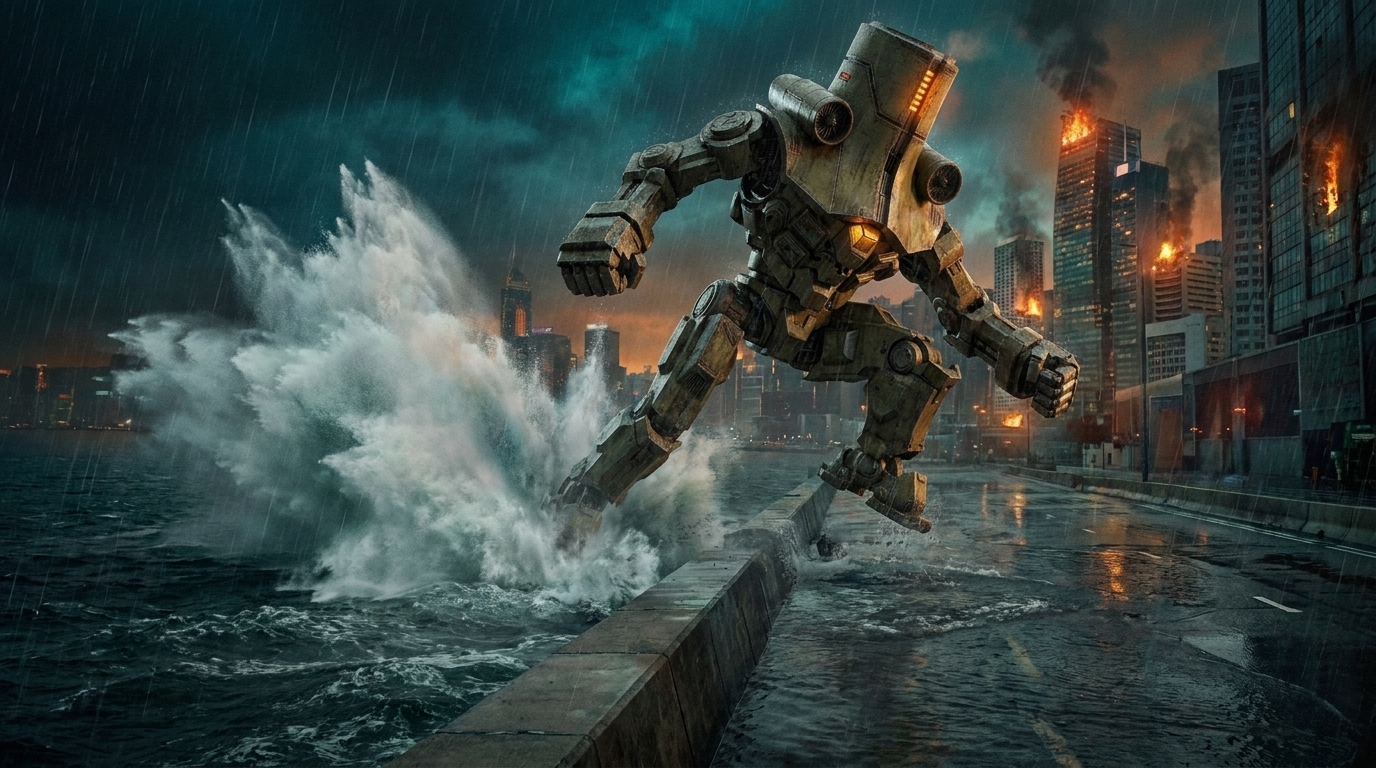
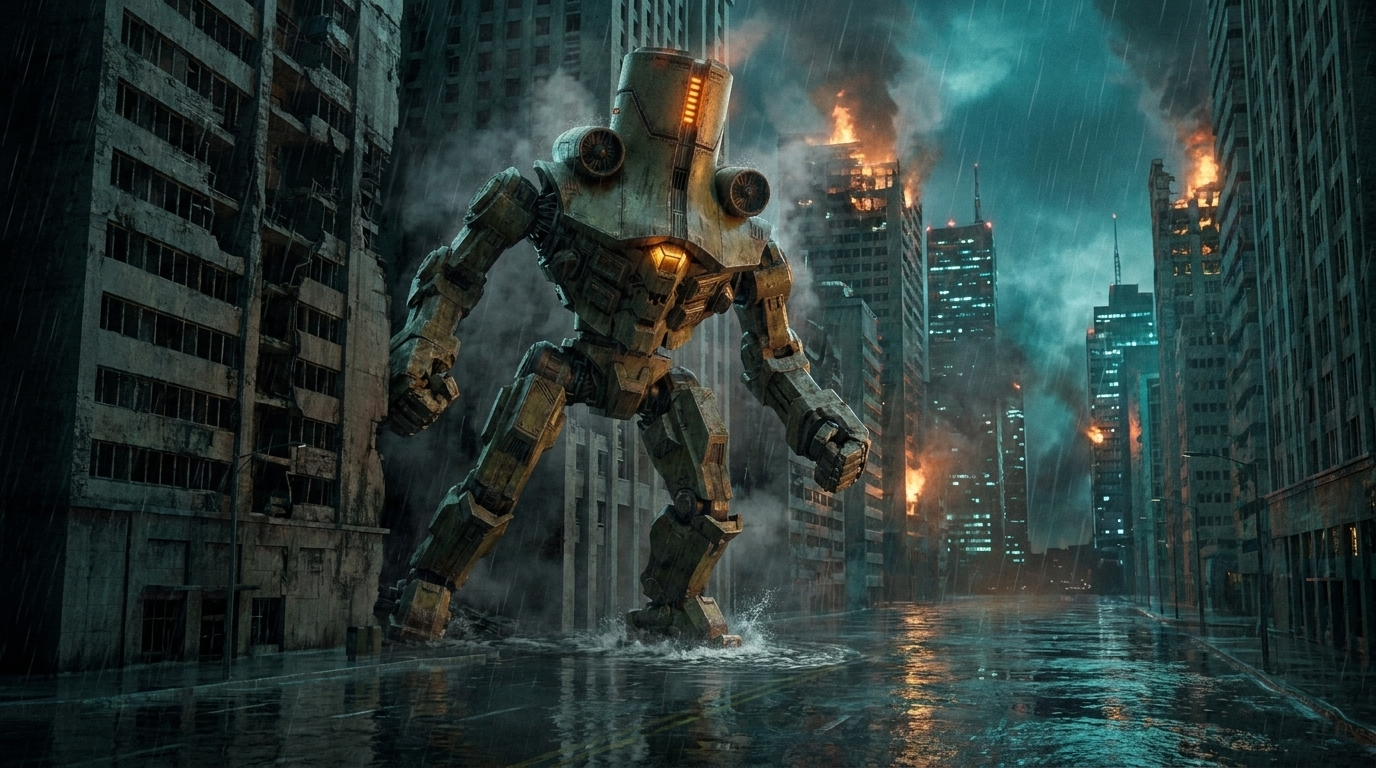
Update Beat 02 (shot_05 to shot_08): Cherno steps from city street, marches along boulevard, arrives at seawall street, raises fists facing Godzilla

diff --git a/projects/cherno-alpha-vs-godzilla/PROGRESS.md b/projects/cherno-alpha-vs-godzilla/PROGRESS.md
@@ -21,7 +21,7 @@ Kết thúc phiên: `media-push` rồi `git add -A && git commit && git push` (q
 - **Slug:** `cherno-alpha-vs-godzilla` — thư mục `projects/cherno-alpha-vs-godzilla/` (KHÔNG `init` dự án mới)
 - **Flow:** https://flow.google.com/project/eba75017-1af5-48e6-b95b-1b0d6294c221
 - **Ngôn ngữ / khung:** en / 16:9; giọng dẫn `-`
-- **Cập nhật lần cuối:** 2026-10-21T21:28:45 trên máy **DESKTOP-HUP72C4** (lệnh `storyboard`)
+- **Cập nhật lần cuối:** 2026-10-22T17:27:21 trên máy **DESKTOP-HUP72C4** (lệnh `storyboard`)
 - **Storyboard:** chưa duyệt
 
 ## ▶ Bước tiếp theo: 4. 🧑 Chờ người dùng duyệt storyboard
@@ -152,6 +152,11 @@ python scripts/studio_helper.py storyboard-approve --project cherno-alpha-vs-god
 
 | Lúc | Máy | Lệnh | Kết quả |
 |---|---|---|---|
+| 10-22 17:27 | DESKTOP-HUP72C4 | `storyboard ` | ok |
+| 10-22 17:25 | DESKTOP-HUP72C4 | `flow-harvest --kind image --shots shot_05,shot_06,shot_07 --wait` | ok |
+| 10-22 17:24 | DESKTOP-HUP72C4 | `flow-generate --kind frames --shots shot_05,shot_06,shot_07 --count 2` | ok |
+| 10-22 17:23 | DESKTOP-HUP72C4 | `flow-harvest --kind image --shots shot_05,shot_06,shot_07 --wait` | ok |
+| 10-22 17:23 | DESKTOP-HUP72C4 | `flow-generate --kind frames --shots shot_05,shot_06,shot_07 --count 2` | ❌ FlowError: Không kết nối được Chrome cổng 9222 — chạy `check-browser --launch`.  |
 | 10-21 21:28 | DESKTOP-HUP72C4 | `storyboard ` | ok |
 | 10-21 21:27 | DESKTOP-HUP72C4 | `flow-harvest --kind image --shots shot_06,shot_07,shot_08 --wait` | ok |
 | 10-21 21:25 | DESKTOP-HUP72C4 | `flow-generate --kind frames --shots shot_06,shot_07,shot_08 --count 2` | ok |
@@ -162,8 +167,3 @@ python scripts/studio_helper.py storyboard-approve --project cherno-alpha-vs-god
 | 10-21 21:03 | DESKTOP-HUP72C4 | `storyboard ` | ok |
 | 10-21 21:02 | DESKTOP-HUP72C4 | `storyboard ` | ok |
 | 10-21 20:59 | DESKTOP-HUP72C4 | `flow-harvest --kind image --shots shot_05 --wait` | ok |
-| 10-21 20:57 | DESKTOP-HUP72C4 | `flow-harvest --kind image --shots shot_05,shot_06,shot_07 --wait` | ok |
-| 10-21 20:56 | DESKTOP-HUP72C4 | `flow-generate --kind frames --count 2 --shots shot_05,shot_06,shot_07` | ok |
-| 10-21 20:55 | DESKTOP-HUP72C4 | `lint-prompts --strict` | ok |
-| 10-21 20:55 | DESKTOP-HUP72C4 | `build-prompts ` | ok |
-| 10-21 20:20 | DESKTOP-HUP72C4 | `storyboard ` | ok |

diff --git a/projects/INDEX.md b/projects/INDEX.md
@@ -4,7 +4,7 @@ Tự sinh. Dự án đang làm dở: mở `projects/<slug>/PROGRESS.md` hoặc c
 
 | Dự án | Bước tiếp theo | Hoạt động cuối | Máy |
 |---|---|---|---|
-| [cherno-alpha-vs-godzilla](cherno-alpha-vs-godzilla/PROGRESS.md) | 4. 🧑 Chờ người dùng duyệt storyboard | 2026-10-21 18:51 | DESKTOP-HUP72C4 |
+| [cherno-alpha-vs-godzilla](cherno-alpha-vs-godzilla/PROGRESS.md) | 4. 🧑 Chờ người dùng duyệt storyboard | 2026-10-22 17:27 | DESKTOP-HUP72C4 |
 | [clash-of-titans-rex-vs-vasto-part-1](clash-of-titans-rex-vs-vasto-part-1/PROGRESS.md) | 7. Upscale 1080p | 2026-10-21 18:44 | DESKTOP-HUP72C4 |
 | [t-rex-vs-spinosaurus-swamp-battle](t-rex-vs-spinosaurus-swamp-battle/PROGRESS.md) | 5. Tải kết quả Flow đang tạo dở | 2026-10-21 09:44 | DESKTOP-HUP72C4 |
 | [podcast-giac-mo-thiep-cuoi](podcast-giac-mo-thiep-cuoi/PROGRESS.md) | 4. 🧑 Chờ người dùng duyệt storyboard | 2026-10-20 18:32 | user |
